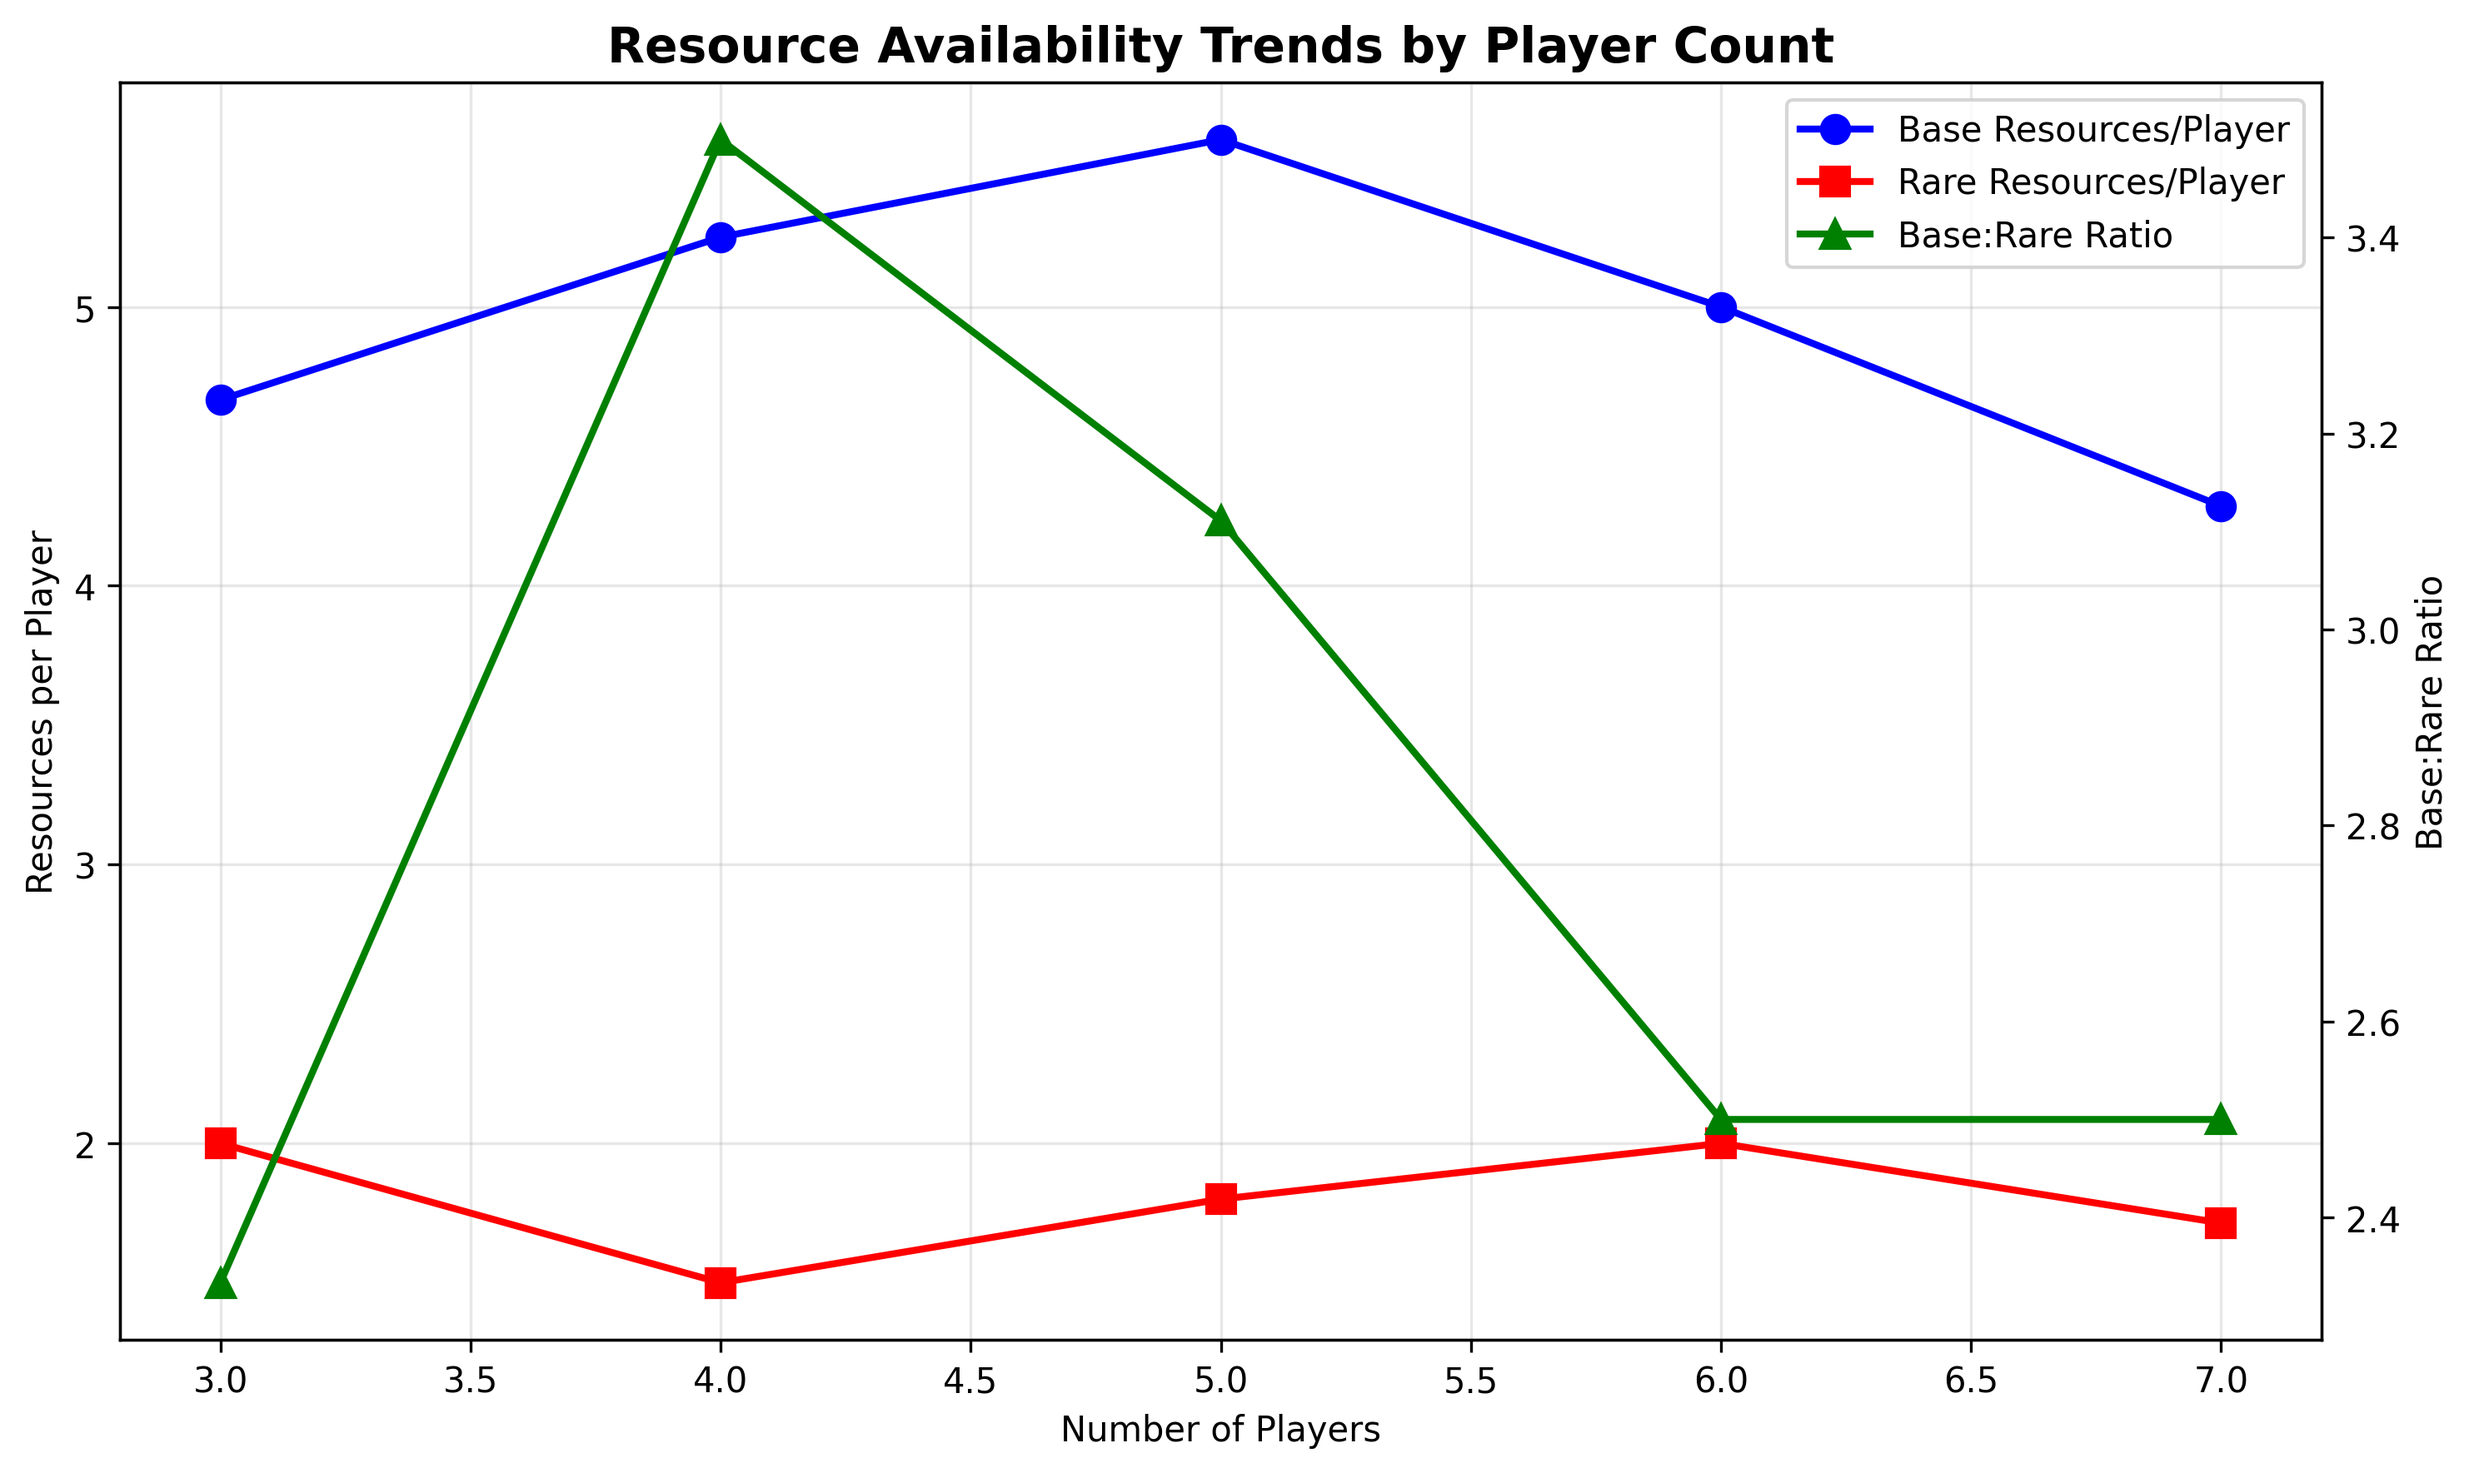
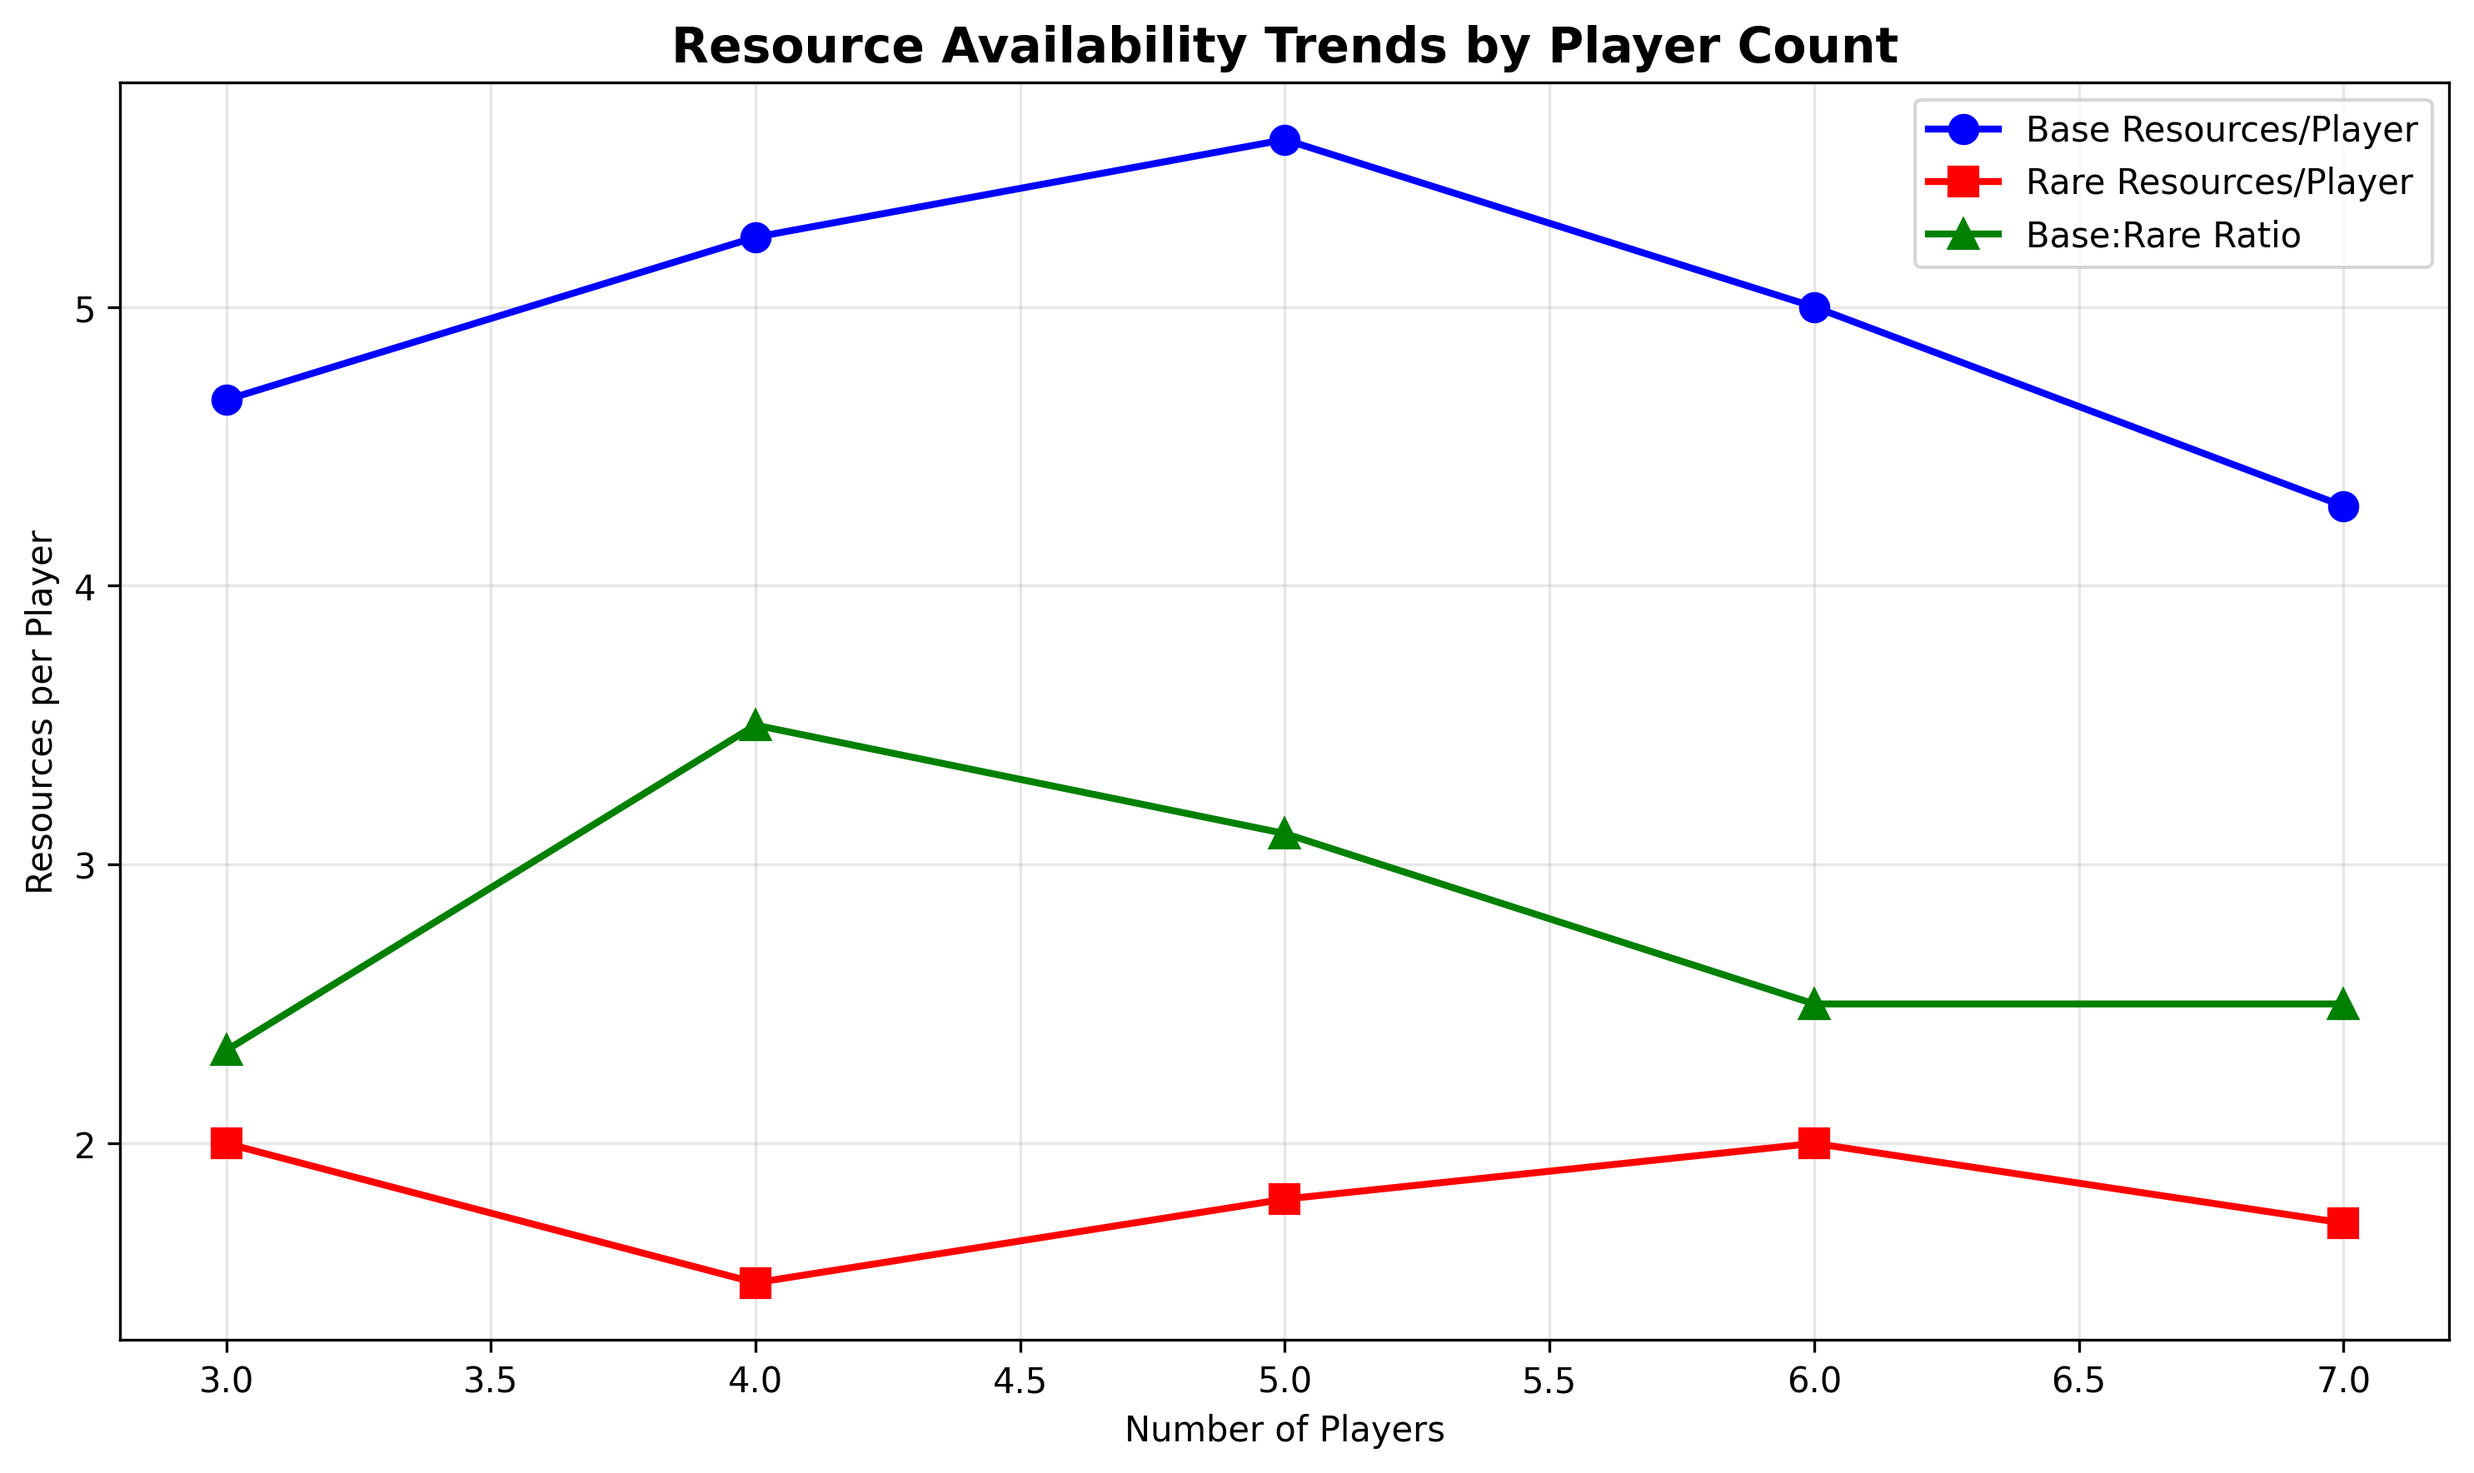
final touches, hopefully

diff --git a/src/stats/res_avail.py b/src/stats/res_avail.py
@@ -127,13 +127,11 @@ def create_individual_trend_plots(data):
                      markersize=8, label='Rare Resources/Player', color='red')
     
     # Create secondary y-axis for ratio
-    ax2 = ax.twinx()
-    line3, = ax2.plot(player_counts, data['base_per_rare_ratios'], '^-', linewidth=2, 
+    line3, = ax.plot(player_counts, data['base_per_rare_ratios'], '^-', linewidth=2, 
                       markersize=8, label='Base:Rare Ratio', color='green')
     
     ax.set_xlabel('Number of Players')
     ax.set_ylabel('Resources per Player')
-    ax2.set_ylabel('Base:Rare Ratio')
     ax.set_title('Resource Availability Trends by Player Count', fontsize=14, fontweight='bold')
     
     # Combine legends from both axes

diff --git a/slides.md b/slides.md
@@ -61,7 +61,7 @@ Come procediamo?
 
 - Raccogliamo strumentopoli!
 - Formule matematiche!!!
-- Conclusioni
+- Conclusioni!!!!!!
 
 ---
 
@@ -272,7 +272,7 @@ Usiamo Resource Point
 
 - Risorse base = 1 RP
 - Risorse rare = 3 RP
-- Monete = 1 RP
+- Monete = 1 RP (o 2 RP, cambia poco)
 
 ---
 
@@ -290,13 +290,17 @@ Costo medio:
 - Era 2: 2.39 RP
 - Era 3: 6.16 RP
 
-Questo indipendentemente dal numero di giocatori! (bassa varianza)
+Questo indipendentemente dal numero di giocatori!
+
+- più giocatori = costo medio minore
+- delta principalmente terza era
+- bassa varianza
 
 ---
 
 ### Costo delle Carte
 
-Ora possiamo determinare per ogni carta il suo rapporto punti/costo:
+Ora possiamo determinare per ogni carta il suo 'valore':
 
 Usando Value Points:
 
@@ -321,6 +325,8 @@ Ultimo strumentopolo acquisito ☝( ◠‿◠ )
 ---
 
 ### Carte Blu
+
+<br><br>
 
 $$
 VP = NumeroSullaCarta / Costo In RP
@@ -379,7 +385,7 @@ $$
 - prima era:
     - Taverna: 2.7 (duh)
 - seconda era:
-    - Bazar, Vigneto: 4.6
+    - Bazar, Vigneto: 4.6 (circa)
 - terza era:
     - Palestra Gladiatoria: 3.3
 
@@ -417,7 +423,7 @@ Top 3:
 
 - Gilda degli Artigiani: 2.4 (!)
 - Gilda dei Lavoratori: 1.4
-- Gilda delle spie: 1.3
+- Gilda delle Spie: 1.3
 
 Valore medio: 1.20
 
@@ -441,11 +447,11 @@ $$
 Con:
 
 $$
-PuntiPerFM = (PuntiVM/MediaFMEra) + 1
+PuntiPerFM = PuntiVM / (MediaFMEra + 1)
 $$
 
 $$
-PuntiVM = 2,6,10
+PuntiVM = [1,3,5] * 2
 $$
 
 ---
@@ -482,6 +488,41 @@ Non tutte le scienze sono uguali!
 
 ---
 
+### Carte Verdi
+
+<br><br>
+
+- 3 stesso tipo = 9 Punti
+- 3 diverso tipo = 7 Punti
+
+Meglio se stesso tipo!
+
+---
+
+### Carte Verdi
+
+Dato che in media ogni città ha 3/4 carte verdi, per ogni tipo:
+
+<br><br>
+
+$$
+VP = 4 / MediaCostoInRP
+$$
+
+---
+
+### Carte Verdi
+
+- Scrittura: 0.8
+- Matematica: 0.7
+- Ingegneria: 0.7 :(
+
+Valore Medio: 0.74
+
+La scienza non ripaga
+
+---
+
 <!-- _class: lead invert -->
 
 # Meraviglie
@@ -502,15 +543,15 @@ Non tutte le scienze sono uguali!
 
 ### Conclusioni
 
-- Risorse:
-    - 3/4 risorse base (senza contare città)
-    - 1/2 risorse rare (senza contare città)
+- Risorse (senza contare città):
+    - 3/4 risorse base
+    - 1/2 risorse rare
 - Forza militare:
-    - Prima era= 1/2
-    - Seconda era= 3/4
-    - Terza era= 7/8
-- 3/4 per ogni tipologia (1/2 di gilde)
-- solo un tipo di scienza
+    - Prima era: 1/2
+    - Seconda era: 3/4
+    - Terza era: 7/8
+- 3/4 per ogni altra tipologia (1/2 di gilde)
+- solo un tipo di scienza (idealmente Scrittura)
 
 ---
 
@@ -531,13 +572,14 @@ Media VP:
 Carte Migliori:
 
 - Prima era:
-    - Altare, Teatro, Pozzo: 4.0
-    - Bagni: 3.0
-    - Taverna: 2.7
+    - 🟦 Altare, Teatro, (4+) Pozzo: 4.0
+    - 🟦 Bagni: 3.0
+    - (4+) 🟨 Taverna: 2.7
+
 - Seconda era:
-    - Bazar, Vigneto: 4.6
-    - Acquedotto: 1.7
-    - Statua: 1.3
+    - 🟨 Vigneto, (4+) Bazar: 4.6
+    - 🟦 Acquedotto: 1.7
+    - 🟦 Statua: 1.3
 
 ---
 
@@ -546,17 +588,18 @@ Carte Migliori:
 Carte Migliori:
 
 - Terza era:
-    - Palestra Gladiatoria: 3.3
-    - Arena: 2.0
-    - Giardini: 1.7
+    - (4+) 🟨 Palestra Gladiatoria: 3.3
+    - 🟨 Arena: 2.0
+    - 🟦 Giardini: 1.7
 
 ---
 
 ### Conclusioni
 
-Non considerato:
+Come consideriamo...:
 
 - mercati
+- concatenazioni
 - città (meraviglia, risorsa)
 - occhi
 
@@ -579,3 +622,4 @@ Non considerato:
 # Fine
 
 ### (Per adesso...)
+
